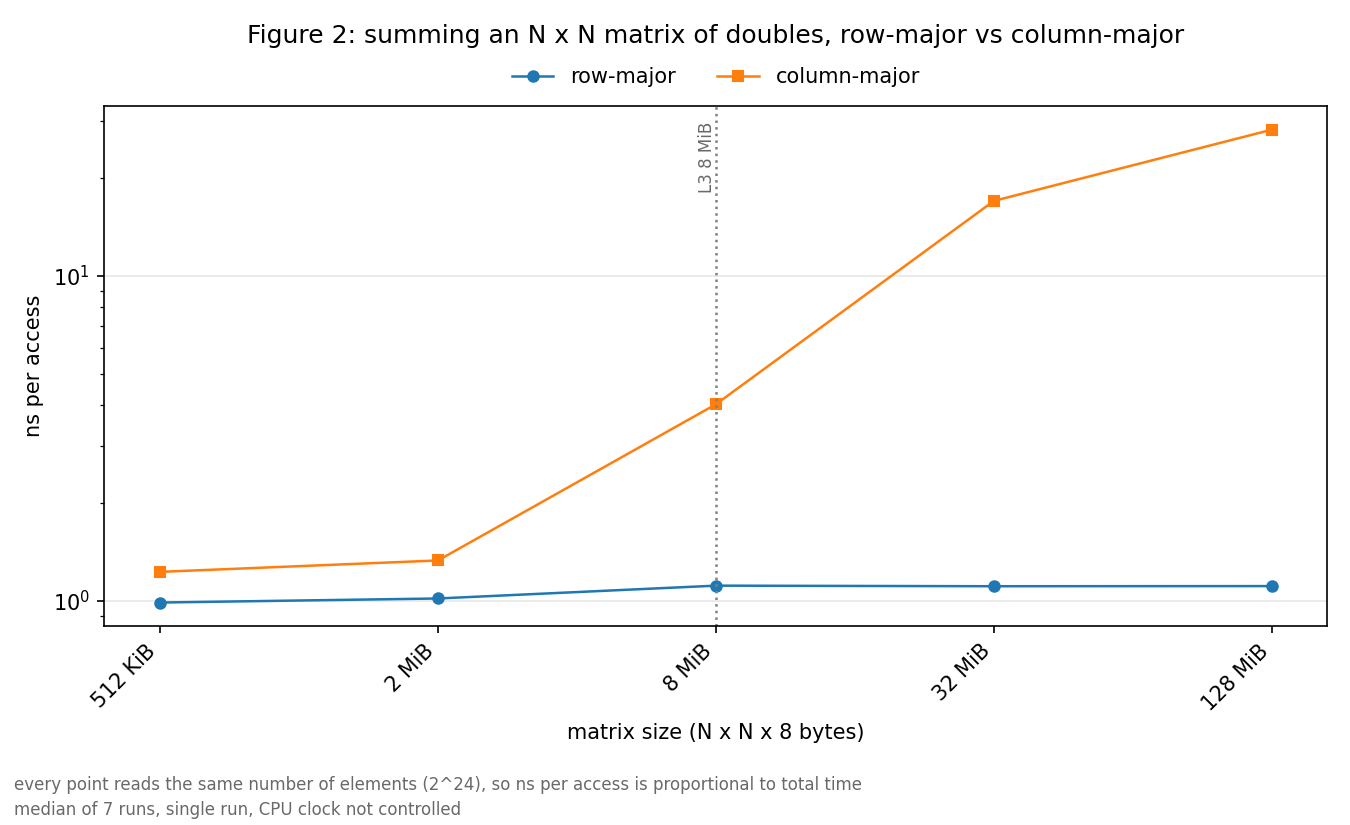
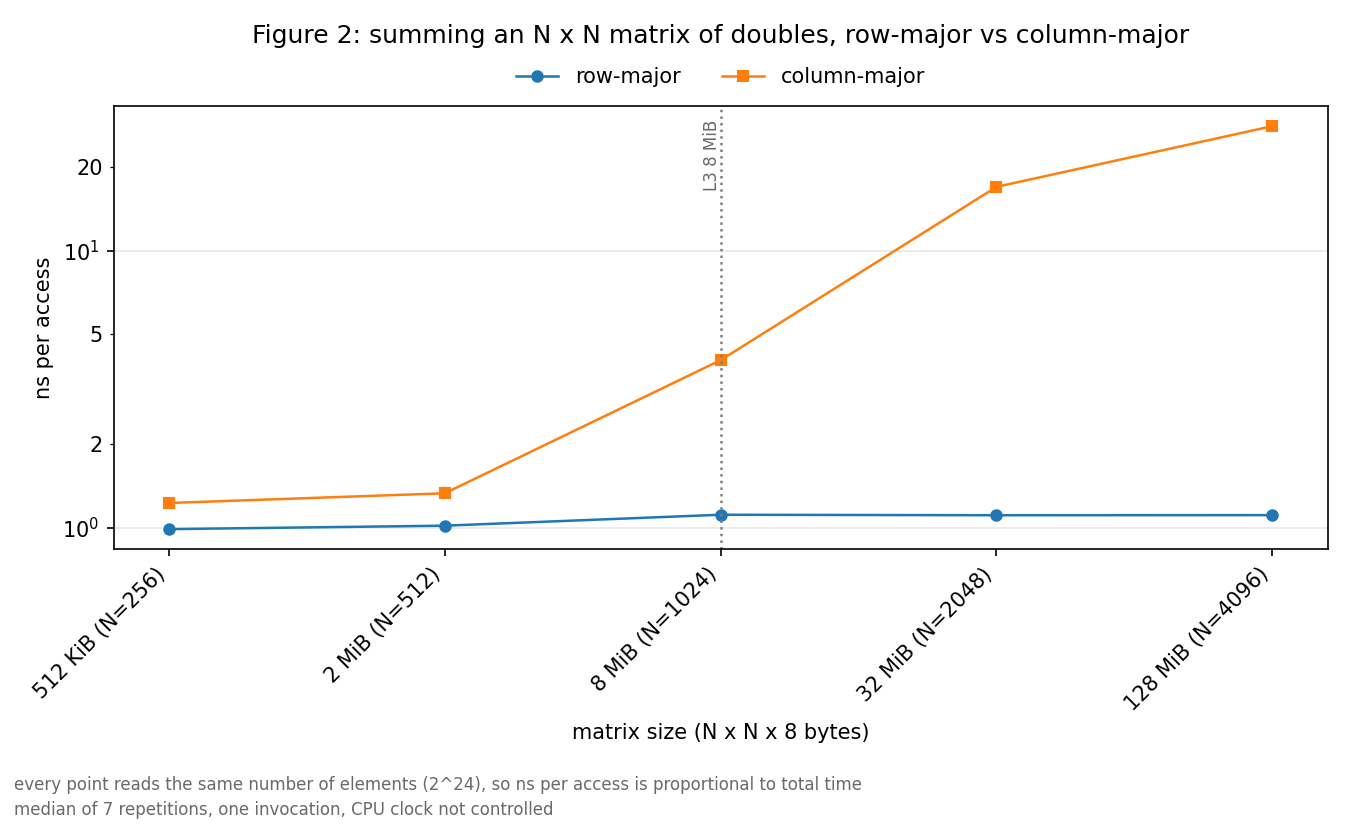
Plot tweaks: footnote wording, Fig 3 L3 label, Fig 2 minor ticks and N labels

diff --git a/plot.py b/plot.py
@@ -17,13 +17,14 @@ skipped and the others are still made.
 """
 
 import csv
+import math
 import os
 import sys
 
 import matplotlib
 matplotlib.use("Agg")  # file output only, no GUI window
 import matplotlib.pyplot as plt
-from matplotlib.ticker import FuncFormatter, NullFormatter, NullLocator
+from matplotlib.ticker import FixedLocator, FuncFormatter, NullFormatter, NullLocator
 
 # Cache sizes of THIS machine (Intel i7-8565U), from `lscpu --caches`.
 # L1d and L2 are per core; the 8 MiB L3 is shared by all cores.
@@ -36,7 +37,7 @@ NODE_BYTES = 16     # list node: int64 value + 8-byte pointer
 ELEMENT_BYTES = 8   # array element: int64
 
 HEADER = ["benchmark", "pattern", "size_bytes", "ns_per_access"]
-FOOTNOTE = "median of 7 runs, single run, CPU clock not controlled"
+FOOTNOTE = "median of 7 repetitions, one invocation, CPU clock not controlled"
 
 
 # ---------------------------------------------------------------- reading
@@ -75,6 +76,12 @@ def fmt_bytes(value, _pos):
     return "%g B" % value
 
 
+def fmt_bytes_with_n(value, _pos):
+    """Matrix size -> '8 MiB (N=1024)'. The matrix is N x N doubles of 8 bytes,
+    so N = sqrt(size_bytes / 8); N is derived from the CSV value, not invented."""
+    return "%s (N=%d)" % (fmt_bytes(value, None), round(math.sqrt(value / 8)))
+
+
 def fmt_count(value, _pos):
     """1000 -> '1k', 3000000 -> '3M' (element counts)."""
     if value >= 1e6:
@@ -85,10 +92,14 @@ def fmt_count(value, _pos):
 
 
 # ---------------------------------------------------------------- drawing
-def make_figure(series, log_base, x_formatter, cache_lines, title, xlabel, notes, out_path):
-    """series      : list of (label, [x...], [y...]) - the measured points
-    cache_lines : list of (x_position, label) - dotted vertical lines
-    notes       : extra footnote lines (the standard footnote is always added)"""
+def make_figure(series, log_base, x_formatter, cache_lines, title, xlabel, notes, out_path,
+                y_minor_labels=None):
+    """series         : list of (label, [x...], [y...]) - the measured points
+    cache_lines    : list of (x_position, label) or (x_position, label, placement),
+                     dotted vertical lines; placement "mid-right" puts the label
+                     to the right of the line at mid-height (default: top-left)
+    notes          : extra footnote lines (the standard footnote is always added)
+    y_minor_labels : optional y values that get a (minor) tick label, e.g. [2, 5, 20]"""
     fig, ax = plt.subplots(figsize=(9, 5.5))
 
     markers = ["o", "s", "^", "D"]
@@ -101,6 +112,11 @@ def make_figure(series, log_base, x_formatter, cache_lines, title, xlabel, notes
     ax.set_xscale("log", base=log_base)
     ax.set_yscale("log")
 
+    # Extra labelled ticks between the decades (scale itself is unchanged).
+    if y_minor_labels:
+        ax.yaxis.set_minor_locator(FixedLocator(y_minor_labels))
+        ax.yaxis.set_minor_formatter(FuncFormatter(lambda v, _pos: "%g" % v))
+
     # Tick exactly at the measured x values, labelled in KiB/MiB (or k/M).
     ticks = sorted(set(all_x))
     ax.set_xticks(ticks)
@@ -111,11 +127,21 @@ def make_figure(series, log_base, x_formatter, cache_lines, title, xlabel, notes
 
     # Dotted cache lines, only where they fall inside the plotted x range.
     x_min, x_max = min(all_x), max(all_x)
-    for x, label in cache_lines:
+    for line in cache_lines:
+        x, label = line[0], line[1]
+        placement = line[2] if len(line) > 2 else "top-left"
         if x_min < x < x_max:
             ax.axvline(x, linestyle=":", color="gray", linewidth=1.2)
-            ax.text(x, 0.98, label + " ", rotation=90, ha="right", va="top",
-                    fontsize=8, color="dimgray", transform=ax.get_xaxis_transform())
+            if placement == "mid-right":
+                # right of the line, mid-height: clear of both data lines there
+                # annotate = text with a fixed offset in points, so the label
+                # does not sit on top of the dotted line.
+                ax.annotate(label, xy=(x, 0.40), xycoords=ax.get_xaxis_transform(),
+                            xytext=(4, 0), textcoords="offset points", rotation=90,
+                            ha="left", va="center", fontsize=8, color="dimgray")
+            else:
+                ax.text(x, 0.98, label + " ", rotation=90, ha="right", va="top",
+                        fontsize=8, color="dimgray", transform=ax.get_xaxis_transform())
 
     ax.set_xlabel(xlabel)
     ax.set_ylabel("ns per access")
@@ -173,11 +199,12 @@ def fig2(results_dir, figures_dir):
         return
     notes = ["every point reads the same number of elements (2^24), so ns per access "
              "is proportional to total time"]
-    make_figure(series, 2, fmt_bytes,
+    make_figure(series, 2, fmt_bytes_with_n,
                 [(b, "%s %s" % (name, fmt_bytes(b, None))) for name, b in CACHES],
                 "Figure 2: summing an N x N matrix of doubles, row-major vs column-major",
                 "matrix size (N x N x 8 bytes)", notes,
-                os.path.join(figures_dir, "fig2_matrix_traversal.png"))
+                os.path.join(figures_dir, "fig2_matrix_traversal.png"),
+                y_minor_labels=[2, 5, 20])
 
 
 def fig3(results_dir, figures_dir):
@@ -197,8 +224,11 @@ def fig3(results_dir, figures_dir):
     # Cache lines at the LIST's capacity in nodes: cache bytes / 16.
     # Two-line labels ("L3 8 MiB" / "524,288 nodes") are short enough to stay
     # above the data instead of running over the list line.
-    lines = [(b // NODE_BYTES, "%s %s\n%s nodes" % (name, fmt_bytes(b, None),
-                                                    "{:,}".format(b // NODE_BYTES)))
+    # The L3 label goes to the right of its line at mid-height: at the top-left
+    # spot it ran over the list line, which passes there on its way up.
+    lines = [(b // NODE_BYTES,
+              "%s %s\n%s nodes" % (name, fmt_bytes(b, None), "{:,}".format(b // NODE_BYTES)),
+              "mid-right" if name == "L3" else "top-left")
              for name, b in CACHES]
     notes = ["a list node is 16 bytes, an array element 8 bytes; dotted lines show each "
              "cache's capacity in list nodes (in array elements it is 2x larger)"]
